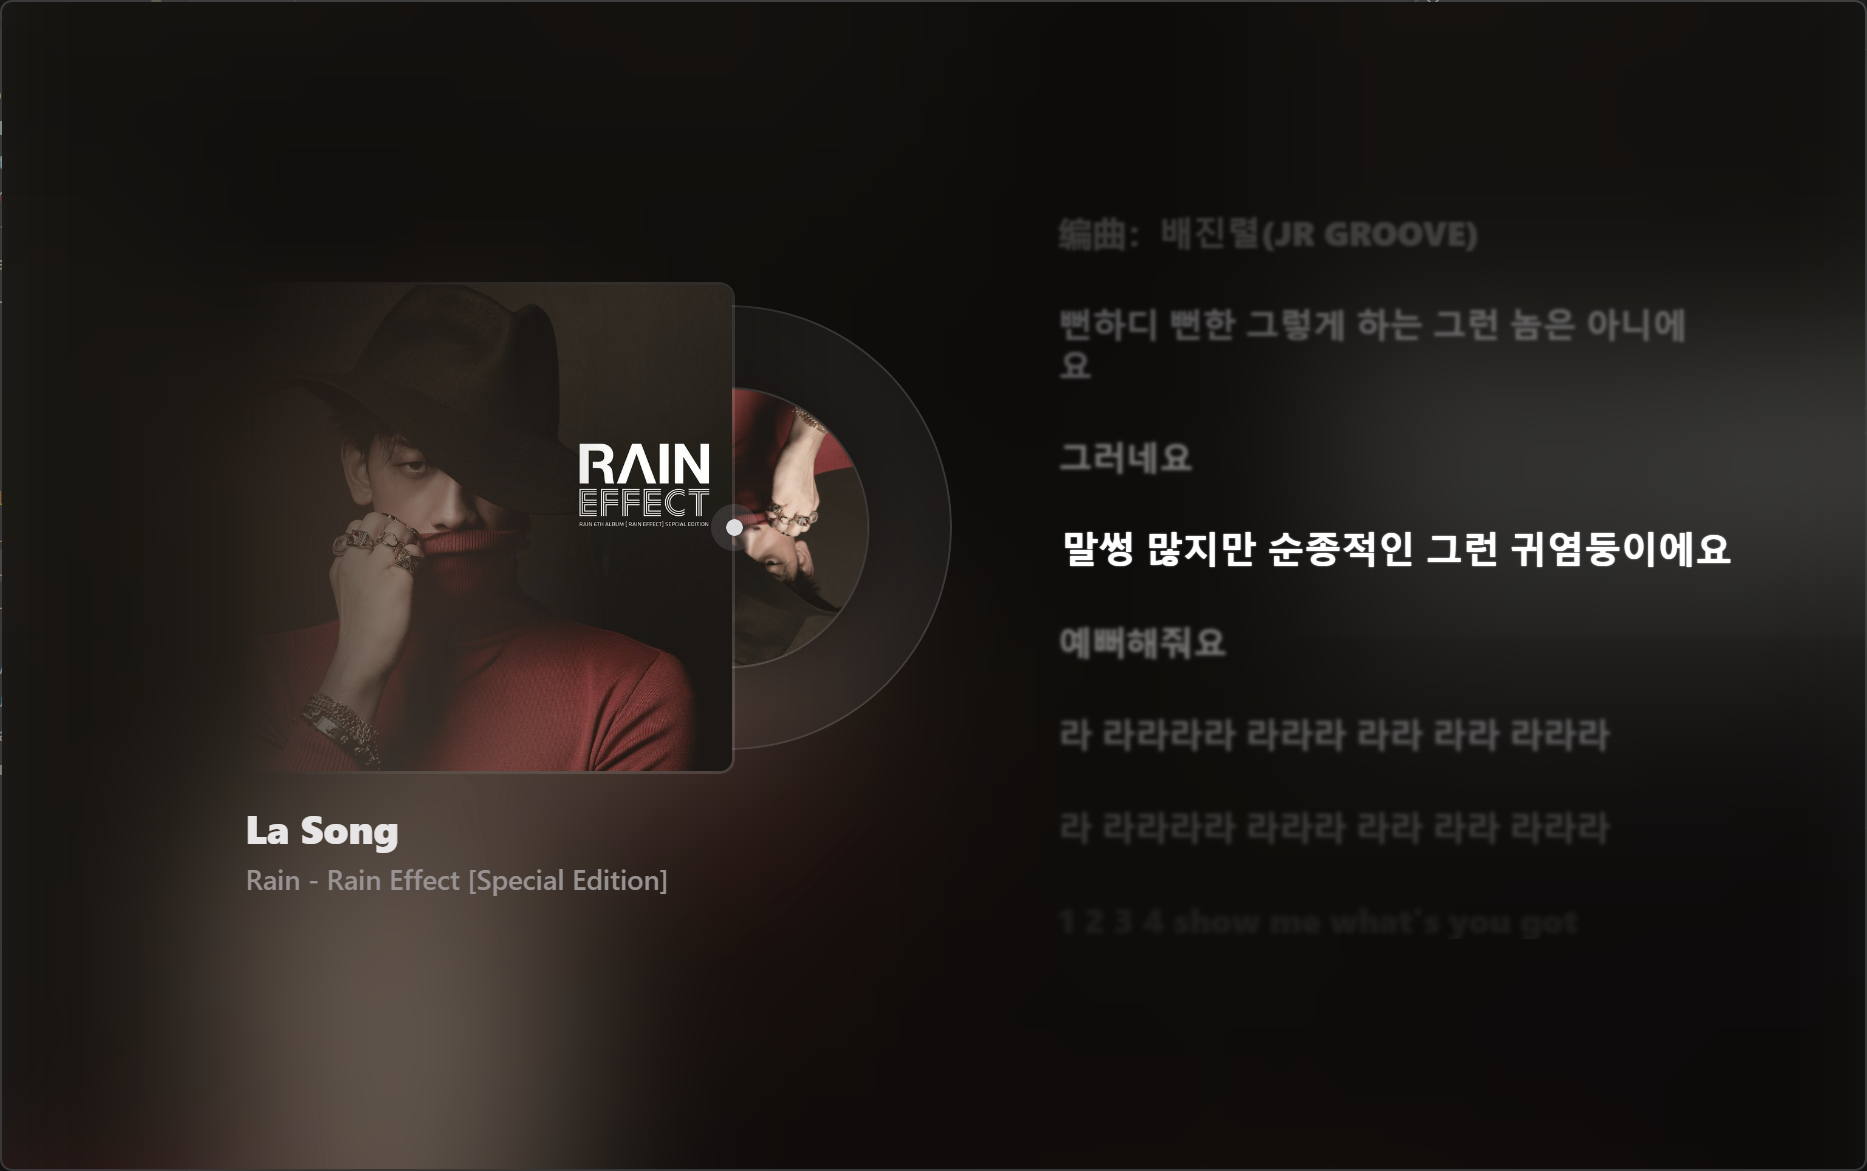
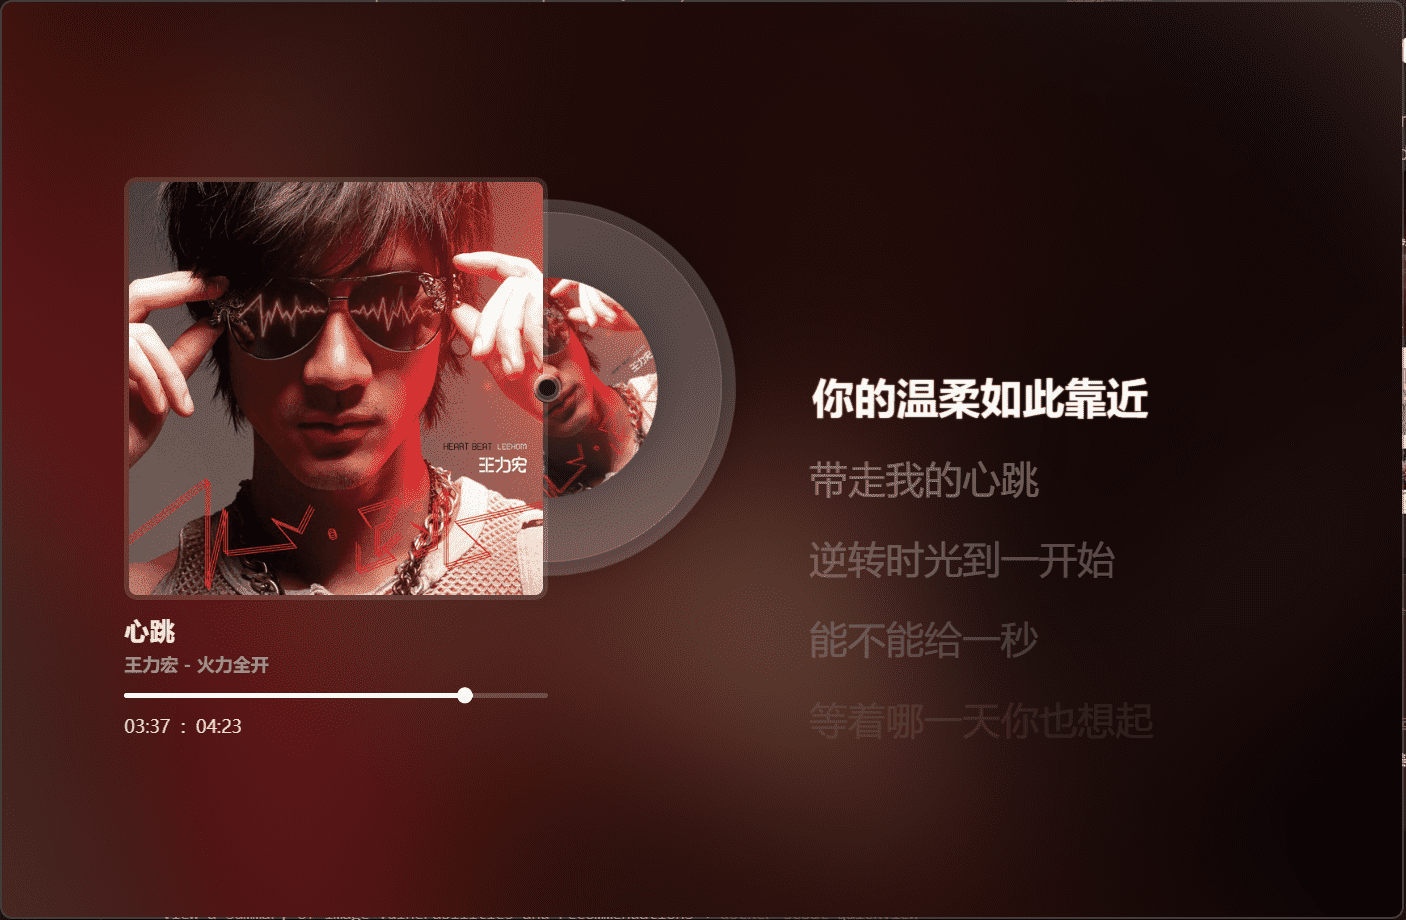
Update Readme.md Version of 1.5.0

diff --git a/README.md b/README.md
@@ -49,8 +49,11 @@
 - [ ] various music usage scenarios(For NSMusicS-GO: Server)
 
 ## Screenshots:
-  - [x] NSMusicS(Electron)：Under development    
+  - [x] NSMusicS(Electron, Docker-Web)：Under development    
+  - [x] Normal Play Model 
   <img src="doc/Web (0).png" width="49.5%"><img src="doc/Web (1).png" width="49.5%"><img src="doc/Web (2).png" width="49.5%"><img src="doc/Web (3).png" width="49.5%">
+  - [x] Mini Play Model: Desktop floating mini window
+  <img src="doc/Web (4).png" width="49.5%"><img src="doc/Web (5).png" width="49.5%">
 
 ## Downloads
   - [NSMusicS Electron Test (Now)](https://github.com/Super-Badmen-Viper/NSMusicS/releases)
